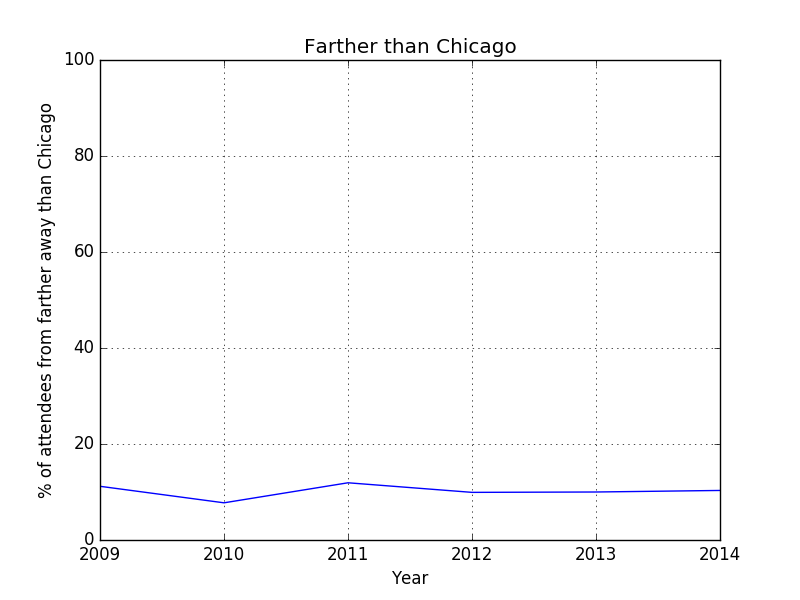
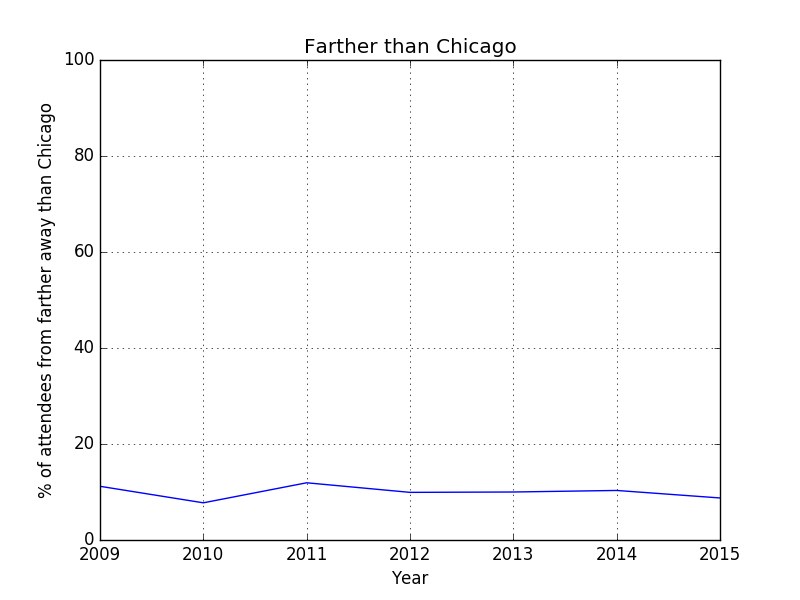
Update a few places that weren't using the YEARS range

diff --git a/results/results.html b/results/results.html
@@ -8,6 +8,7 @@
       <th>2012</th>
       <th>2013</th>
       <th>2014</th>
+      <th>2015</th>
     </tr>
   </thead>
   <tbody>
@@ -19,6 +20,7 @@
       <td>  131.000000</td>
       <td>  160.000000</td>
       <td>  155.000000</td>
+      <td>  137.000000</td>
     </tr>
     <tr>
       <th>mean</th>
@@ -28,6 +30,7 @@
       <td>  387.077113</td>
       <td>  341.042643</td>
       <td>  372.573675</td>
+      <td>  316.830311</td>
     </tr>
     <tr>
       <th>std</th>
@@ -37,6 +40,7 @@
       <td>  633.917975</td>
       <td>  497.029360</td>
       <td>  671.629435</td>
+      <td>  606.666438</td>
     </tr>
     <tr>
       <th>min</th>
@@ -46,6 +50,7 @@
       <td>   29.297367</td>
       <td>   28.290301</td>
       <td>   31.253593</td>
+      <td>   24.595745</td>
     </tr>
     <tr>
       <th>25%</th>
@@ -55,6 +60,7 @@
       <td>  100.566838</td>
       <td>  104.615746</td>
       <td>  102.538040</td>
+      <td>   96.848338</td>
     </tr>
     <tr>
       <th>50%</th>
@@ -64,6 +70,7 @@
       <td>  123.204021</td>
       <td>  161.509339</td>
       <td>  123.204021</td>
+      <td>  114.602017</td>
     </tr>
     <tr>
       <th>75%</th>
@@ -73,6 +80,7 @@
       <td>  374.739526</td>
       <td>  373.016253</td>
       <td>  251.311167</td>
+      <td>  211.264503</td>
     </tr>
     <tr>
       <th>max</th>
@@ -82,6 +90,7 @@
       <td> 2596.219829</td>
       <td> 2596.219829</td>
       <td> 3344.356039</td>
+      <td> 3253.540193</td>
     </tr>
   </tbody>
 </table>

diff --git a/rebuild.py b/rebuild.py
@@ -68,8 +68,8 @@ def make_farther_than_chart(place_name, distance, filename, data):
     plt.title("Farther than {city}".format(city=place_name))
     plt.xlabel("Year")
     plt.ylabel("% of attendees from farther away than {city}".format(city=place_name))
-    plt.axis([2009, 2014, 0, 100])
-    plt.xticks(range(2009, 2015), [str(x) for x in range(2009, 2015)])
+    plt.axis([YEARS[0], YEARS[-1], 0, 100])
+    plt.xticks(YEARS, [str(x) for x in YEARS])
     fig.savefig("results/{filename}.png".format(filename=filename))
     plt.close()
 
@@ -100,7 +100,7 @@ def main():
     # Combine summaries for different years:
     for year in YEARS:
         summaries[year] = combined_data[(combined_data['year']==year)]['distance'].describe()
-    summary_frame = pandas.concat(list(summaries.values()), axis=1, keys=range(2009, 2015))
+    summary_frame = pandas.concat(list(summaries.values()), axis=1, keys=YEARS)
 
     # Save the summaries to an HTML document:
     with open("results/results.html", "w+") as f:
